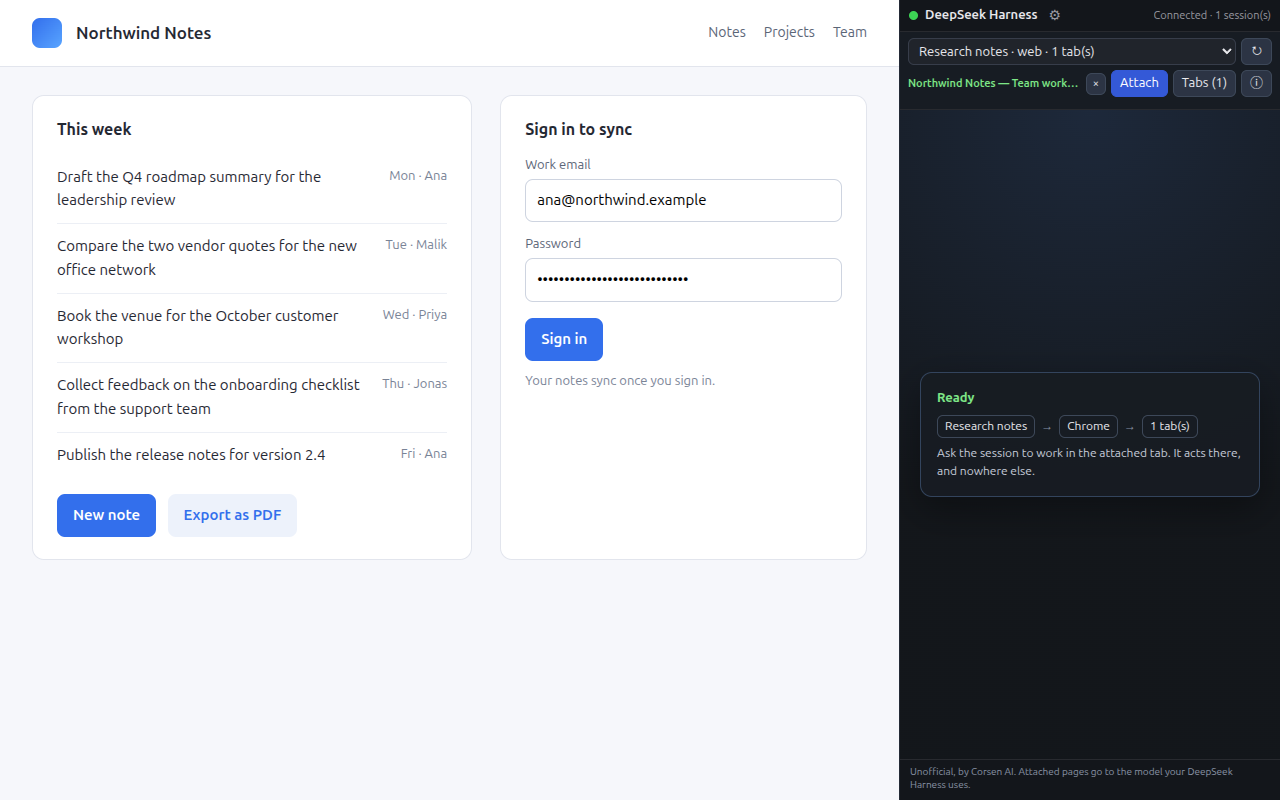
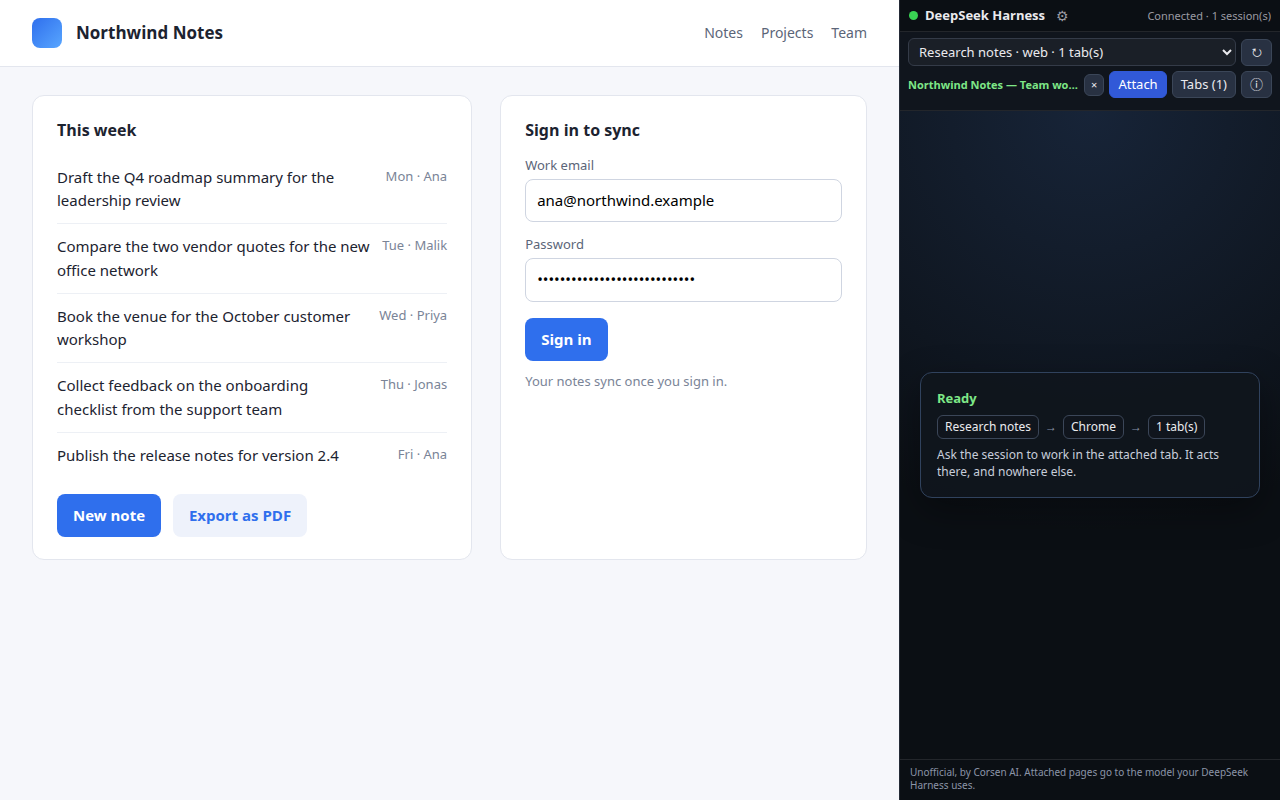
store: screenshots and tiles recaptured on the virtual display, with the release command
Screenshot 1 (the setup card) and screenshot 5 ("Update required") now show the `dsh plugin add` of
the companion's release URL (ADR 0011); the other three and the tiles are the same content, taken on
the virtual display at 5cbfba6 like these two, so the whole set comes from one reproducible
environment (the earlier set had been drawn on the Wayland desktop). ASSETS.md has the sizes, the
hashes and that environment.

diff --git a/store/ASSETS.md b/store/ASSETS.md
@@ -55,7 +55,9 @@ mv store/screenshots/promo-*.png store/
 
 ## Files, as committed on 2026-11-05 at the commit `git log -1 -- store/screenshots` names
 
-The panel was redrawn on 2026-11-05 in the layout Corsen's Hermes Connector uses: one status
+Recaptured on 2026-11-05 at the release-tarball commit: the setup card (screenshot 1) and the
+"Update required" state (screenshot 5) now show the `dsh plugin add` of the companion's release URL
+(ADR 0011). The panel was redrawn on 2026-11-05 in the layout Corsen's Hermes Connector uses: one status
 strip, one compact strip with the session and the tab it acts in, popovers for the tabs, the
 access notes and the settings, and a single card for the next step. Screenshots 1, 2, 3 and 5 show
 it; screenshot 4, the composed view of what a session receives, differs from 2026-09-12 only in the
@@ -63,21 +65,19 @@ fixture server's port. The promotional tiles were redrawn on 2026-11-05 in the C
 
 | File | Size | Bytes | SHA-256 |
 |---|---|---|---|
[17 lines of base64/hex data omitted]
 
 Environment of that capture: Ubuntu 26.04.1, Chrome for Testing 153.0.8010.12 (Playwright 1.63.0),
-Node v26.8.1, headed — on the development machine's own desktop (GNOME on Wayland), not on Xvfb: the
-capture ran through `xvfb-run`, but Chrome for Testing 153 picks its window system from
-`XDG_SESSION_TYPE` and ignored the virtual display until `5cbfba6`. A recapture on the virtual display
-at `5cbfba6` shows the same content with the fonts rasterised differently (software rendering, other
-font fallback) and another fixture port; the committed files, rendered with the desktop's fonts, are
-kept.
+Node v26.8.1, headed on the virtual display (`xvfb-run`, with the browser asking for X11 since `5cbfba6`;
+before that commit a run through `xvfb-run` on this Wayland desktop drew on the desktop itself). The
+capture is deterministic on that display: a second run gives the same bytes for every file but the
+two whose fixture page shows the connector's random port.
